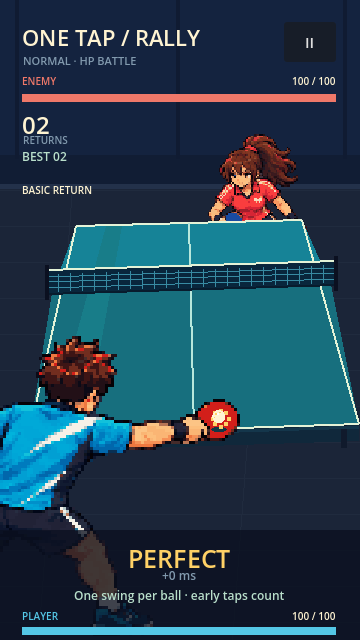
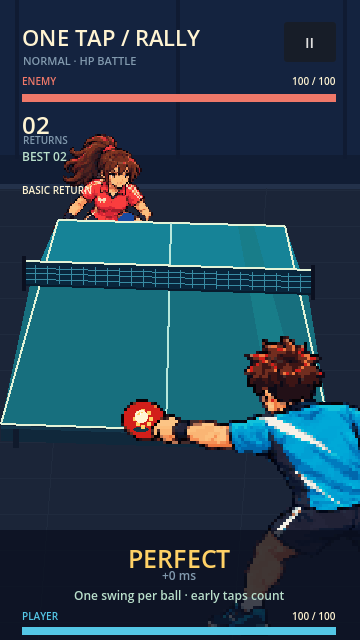
Place player on right and opponent on left

Changed region(s): [[0.0, 0.1875, 1.0, 1.0], [0.5806, 0.9688, 0.6111, 1.0], [0.3972, 0.9688, 0.4278, 1.0]]

diff --git a/docs/GRAPHICS_CONTRACT.md b/docs/GRAPHICS_CONTRACT.md
@@ -5,8 +5,8 @@
 ## 1. 공통 화면 좌표
 
 - 고정 시점: 플레이어 등 뒤에서 약간 높은 2D 화면. 내부 캔버스 360×640, 세로 9:16, Nearest. 카메라 이동은 없다.
-- 탁구대 좌표: `x=-1` 왼쪽 가장자리, `x=1` 오른쪽 가장자리, `depth=0` 상대 쪽 먼 가장자리, `depth=1` 플레이어 쪽 가까운 가장자리. `height`는 화면에서 위로 올릴 픽셀 수다.
-- 투영의 **단일 기준값**은 [`assets/table/layout.json`](../assets/table/layout.json)이다. 실제 공·그림자·접촉점과 탁구대·네트의 윤곽은 모두 `CourtView.project_point()`를 사용한다. `court_scale`과 `court_offset`이 가까운 구도의 크기/위치를 조절한다. `tools/assets/build_court.py`의 탁구대·네트 PNG는 이전 래스터 시안이며 현재 런타임 윤곽에는 사용하지 않는다.
+- 탁구대 좌표: `x=-1`/`x=1`은 논리 좌우 가장자리이며, 현재 `mirror_view=true`에서는 각각 화면 오른쪽/왼쪽에 나타난다. `depth=0`은 상대 쪽 먼 가장자리, `depth=1`은 플레이어 쪽 가까운 가장자리다. `height`는 화면에서 위로 올릴 픽셀 수다.
+- 투영의 **단일 기준값**은 [`assets/table/layout.json`](../assets/table/layout.json)이다. 실제 공·그림자·접촉점과 탁구대·네트의 윤곽은 모두 `CourtView.project_point()`를 사용한다. `court_scale`과 `court_offset`이 가까운 구도의 크기/위치를 조절한다. `mirror_view=true`는 화면 가로 중심을 기준으로 투영과 캐릭터를 뒤집어 플레이어를 오른쪽 전경, 상대를 왼쪽 원경에 놓는다. UI 글자와 HUD는 반전하지 않는다. `tools/assets/build_court.py`의 탁구대·네트 PNG는 이전 래스터 시안이며 현재 런타임 윤곽에는 사용하지 않는다.
 - 양쪽 라켓의 논리 접촉점은 패턴 Resource의 `start_point`/`hit_point`다. 미술 작업에서 타격점을 옮겨 타이밍을 맞추지 않는다. 모든 패턴의 목표점은 동일한 플레이어 위치로 수렴한다.
 
 ## 2. 화면 가림 순서

diff --git a/docs/GAME_DESIGN.md b/docs/GAME_DESIGN.md
@@ -17,7 +17,7 @@
 상단: 상대 HP/캐릭터/필요시 상태. 중앙: 탁구대·네트·공·바운드. 하단: 플레이어·HP·판정 피드백. 필수 요소는 Safe Area 안에 배치하며 다른 iPhone 비율에서도 겹침/잘림을 방지한다.
 
 ## 5. 등 뒤의 약간 높은 고정 시점
-최신 사용자 지시: 플레이어 등 뒤에서 약간 높은 고정 구도. 카메라 이동·회전·추적·각도 변화, 플레이어 이동, 3D 카메라/모델 없음. 2D 탁구대 좌표와 공 위치·크기·높이·그림자로 원근 표현. 화면 흔들림도 카메라 이동으로 구현하지 않는다.
+최신 사용자 지시: 플레이어 등 뒤에서 약간 높은 고정 구도. 플레이어는 화면 오른쪽 전경, 상대는 왼쪽 원경에 배치한다. 카메라 이동·회전·추적·각도 변화, 플레이어 이동, 3D 카메라/모델 없음. 2D 탁구대 좌표와 공 위치·크기·높이·그림자로 원근 표현. 화면 흔들림도 카메라 이동으로 구현하지 않는다.
 
 ## 6. 원버튼 조작
 확정: 화면 터치 한 번 = 스윙. 디버그용 클릭/키보드 허용. 방향키·조이스틱·드래그·별도 공격/방어/스매시 버튼 없음. 공 한 개당 한 스윙, 스윙 중 추가 입력 무시. 너무 빠른 입력도 스윙을 소모한다. 전투 종료/결과 화면 전투 입력 차단. 모든 좌우 코스는 고정 플레이어가 타이밍만으로 리턴 가능해야 한다.

diff --git a/docs/ROADMAP.md b/docs/ROADMAP.md
@@ -110,3 +110,7 @@ Phase 1~5 프로토타입 구현과 자동 검증 완료. 사용자의 직접 10
 - 사용자 피드백에 따라 탁구대 화면 투영을 가로 0.75배/세로 0.78배로 줄이고, 상대 스윙과 상체가 더 보이도록 원경 라켓·공 시작 높이를 조정했다. 탁구대·네트는 정해진 투영 좌표에서 그리므로 크기 변경 시 잘린 PNG 경계가 생기지 않는다.
 - 몸 뒤/앞팔 레이어의 프레임 동기화와 깊이 순서를 구현하고, 임시 앞팔 레이어가 탁구대 위에 표시되는 화면 테스트를 통과했다. **실제 분리형 몸·팔 그림은 제작 전**이며 현재 6프레임 전신 스윙을 사용한다.
 - 엔진 2,640검사 및 캐릭터/Phase 3/Phase 5 가상 화면 검사 통과. 새 구도와 팔 동작의 재미·iPhone 크기는 직접 검수 대기. [그래픽 계약](GRAPHICS_CONTRACT.md).
+
+## 2026-10-14 좌우 배치 변경
+- 사용자 요청으로 플레이어를 오른쪽 전경, 상대를 왼쪽 원경에 배치했다. 화면 투영, 캐릭터 프레임 및 라켓 접촉 기준을 함께 반전하고 텍스트 UI는 유지했다.
+- 엔진 2,640검사와 캐릭터·Phase 5 가상 화면 검사를 통과했다. iPhone 화면에서의 최종 크기와 가독성은 사용자 검수 대기다.

diff --git a/docs/USER_QA.md b/docs/USER_QA.md
@@ -56,7 +56,7 @@ Godot 4.6.3 stable에서 project.godot를 Import → F5. 기본 보통 난이도
 
 
 ## 근접 경기장 수동 검수 대기
-- [ ] 플레이어 등 뒤의 약간 높은 시점과 시안의 집중 구도가 맞는지
+- [ ] 플레이어 오른쪽 전경·상대 왼쪽 원경의 등 뒤 시점과 시안의 집중 구도가 맞는지
 - [ ] 360×640 및 실제 iPhone에서 탁구대·선수·공이 지나치게 크거나 작지 않은지
 - [ ] 네트 앞뒤로 지나는 공과 접촉 링이 눈에 잘 띄는지
 - [ ] 하단 HP/판정 문구가 전경 플레이어와 겹쳐도 읽히는지
